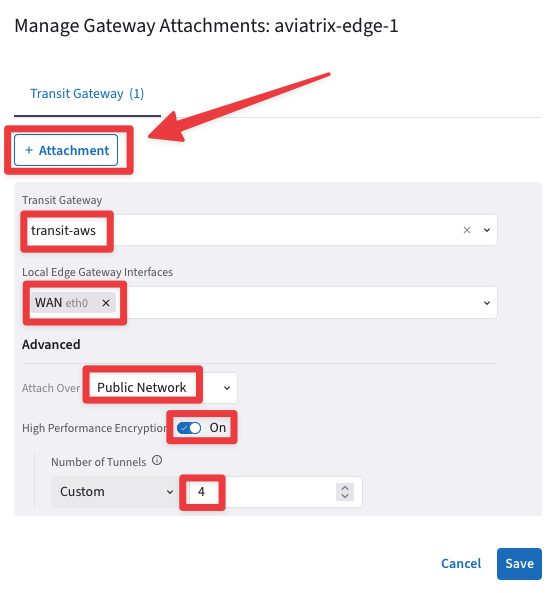
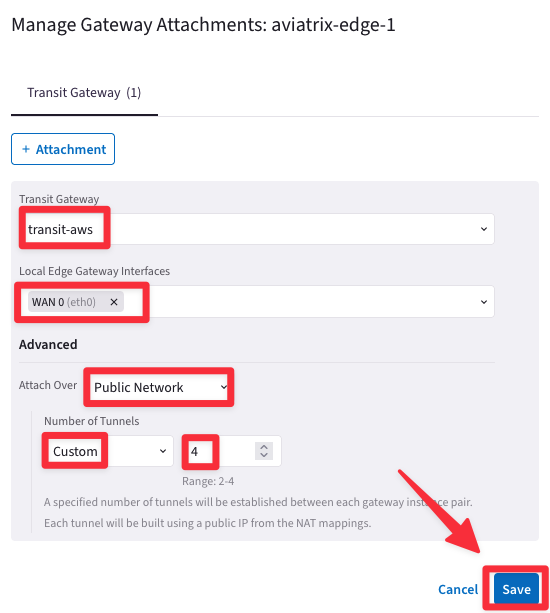
update for backbone

diff --git a/ace_backbone/docs/backbone.md b/ace_backbone/docs/backbone.md
@@ -401,7 +401,7 @@ Topology after task #6
 
 ## 10. Edge to Transits
 
-Let's now attach the **Secure Edge Gateway** to the **Transit Gateways**.
+Let's now connect the **Secure Edge Gateway** to the **Transit Gateways**.
 
 ```{figure} images/backbone-tgw022.png
 ---
@@ -411,7 +411,7 @@ align: center
 The Hybrid Cloud through the Aviatrix Backbone
 ```
 
-Go to **CoPilot > Cloud Fabric > Hybrid Cloud > Edge Gateways** and click on the `"Manage Transit Gateway Attachment"` button, on the right-hand side of the screen.
+Navigate to **CoPilot > Cloud Fabric > Hybrid Cloud > Edge Gateways** and click on the `"Manage Transit Gateway Attachment"` button located on the right side of the screen.
 
 ```{figure} images/backbone-tgw023.png
 ---
@@ -430,19 +430,30 @@ align: center
 +Attachment
 ```
 
-Fill in the attachment template using the following settings:
+Fill out the attachment template with the following settings:
 
 - **Transit Gateway**: <span style='color:#479608'>transit-aws</span>
 - **Local Edge Gateway Interfaces**: <span style='color:#479608'>WAN(etho)</span>
 - **Attach over**: <span style='color:#479608'>**Public Network**</span>
-- **High Performance Encryption**: <span style='color:#479608'>**ON**</span>
-- **Number of Tunnels**: <span style='color:#479608'>**4**</span>
+- **Number of Tunnels**: <span style='color:#479608'>**Custom**</span>
+  - 4
 
 ```{figure} images/backbone-tgw025.png
 ---
 align: center
 ---
 Template for aws
+```
+
+```{caution}
+Please make sure to select `"Attach over: Public Network"`. 
+
+If you accidentally choose "_Attach over: Private Network_", the connection will not be established!
+```{figure} images/edgeveryverynew.png
+---
+align: center
+---
+Attach over PUBLIC Network
 ```
 
 Before saving the template, click on the `"+ Attachment"` button and insert the following values in the second attachment template:
